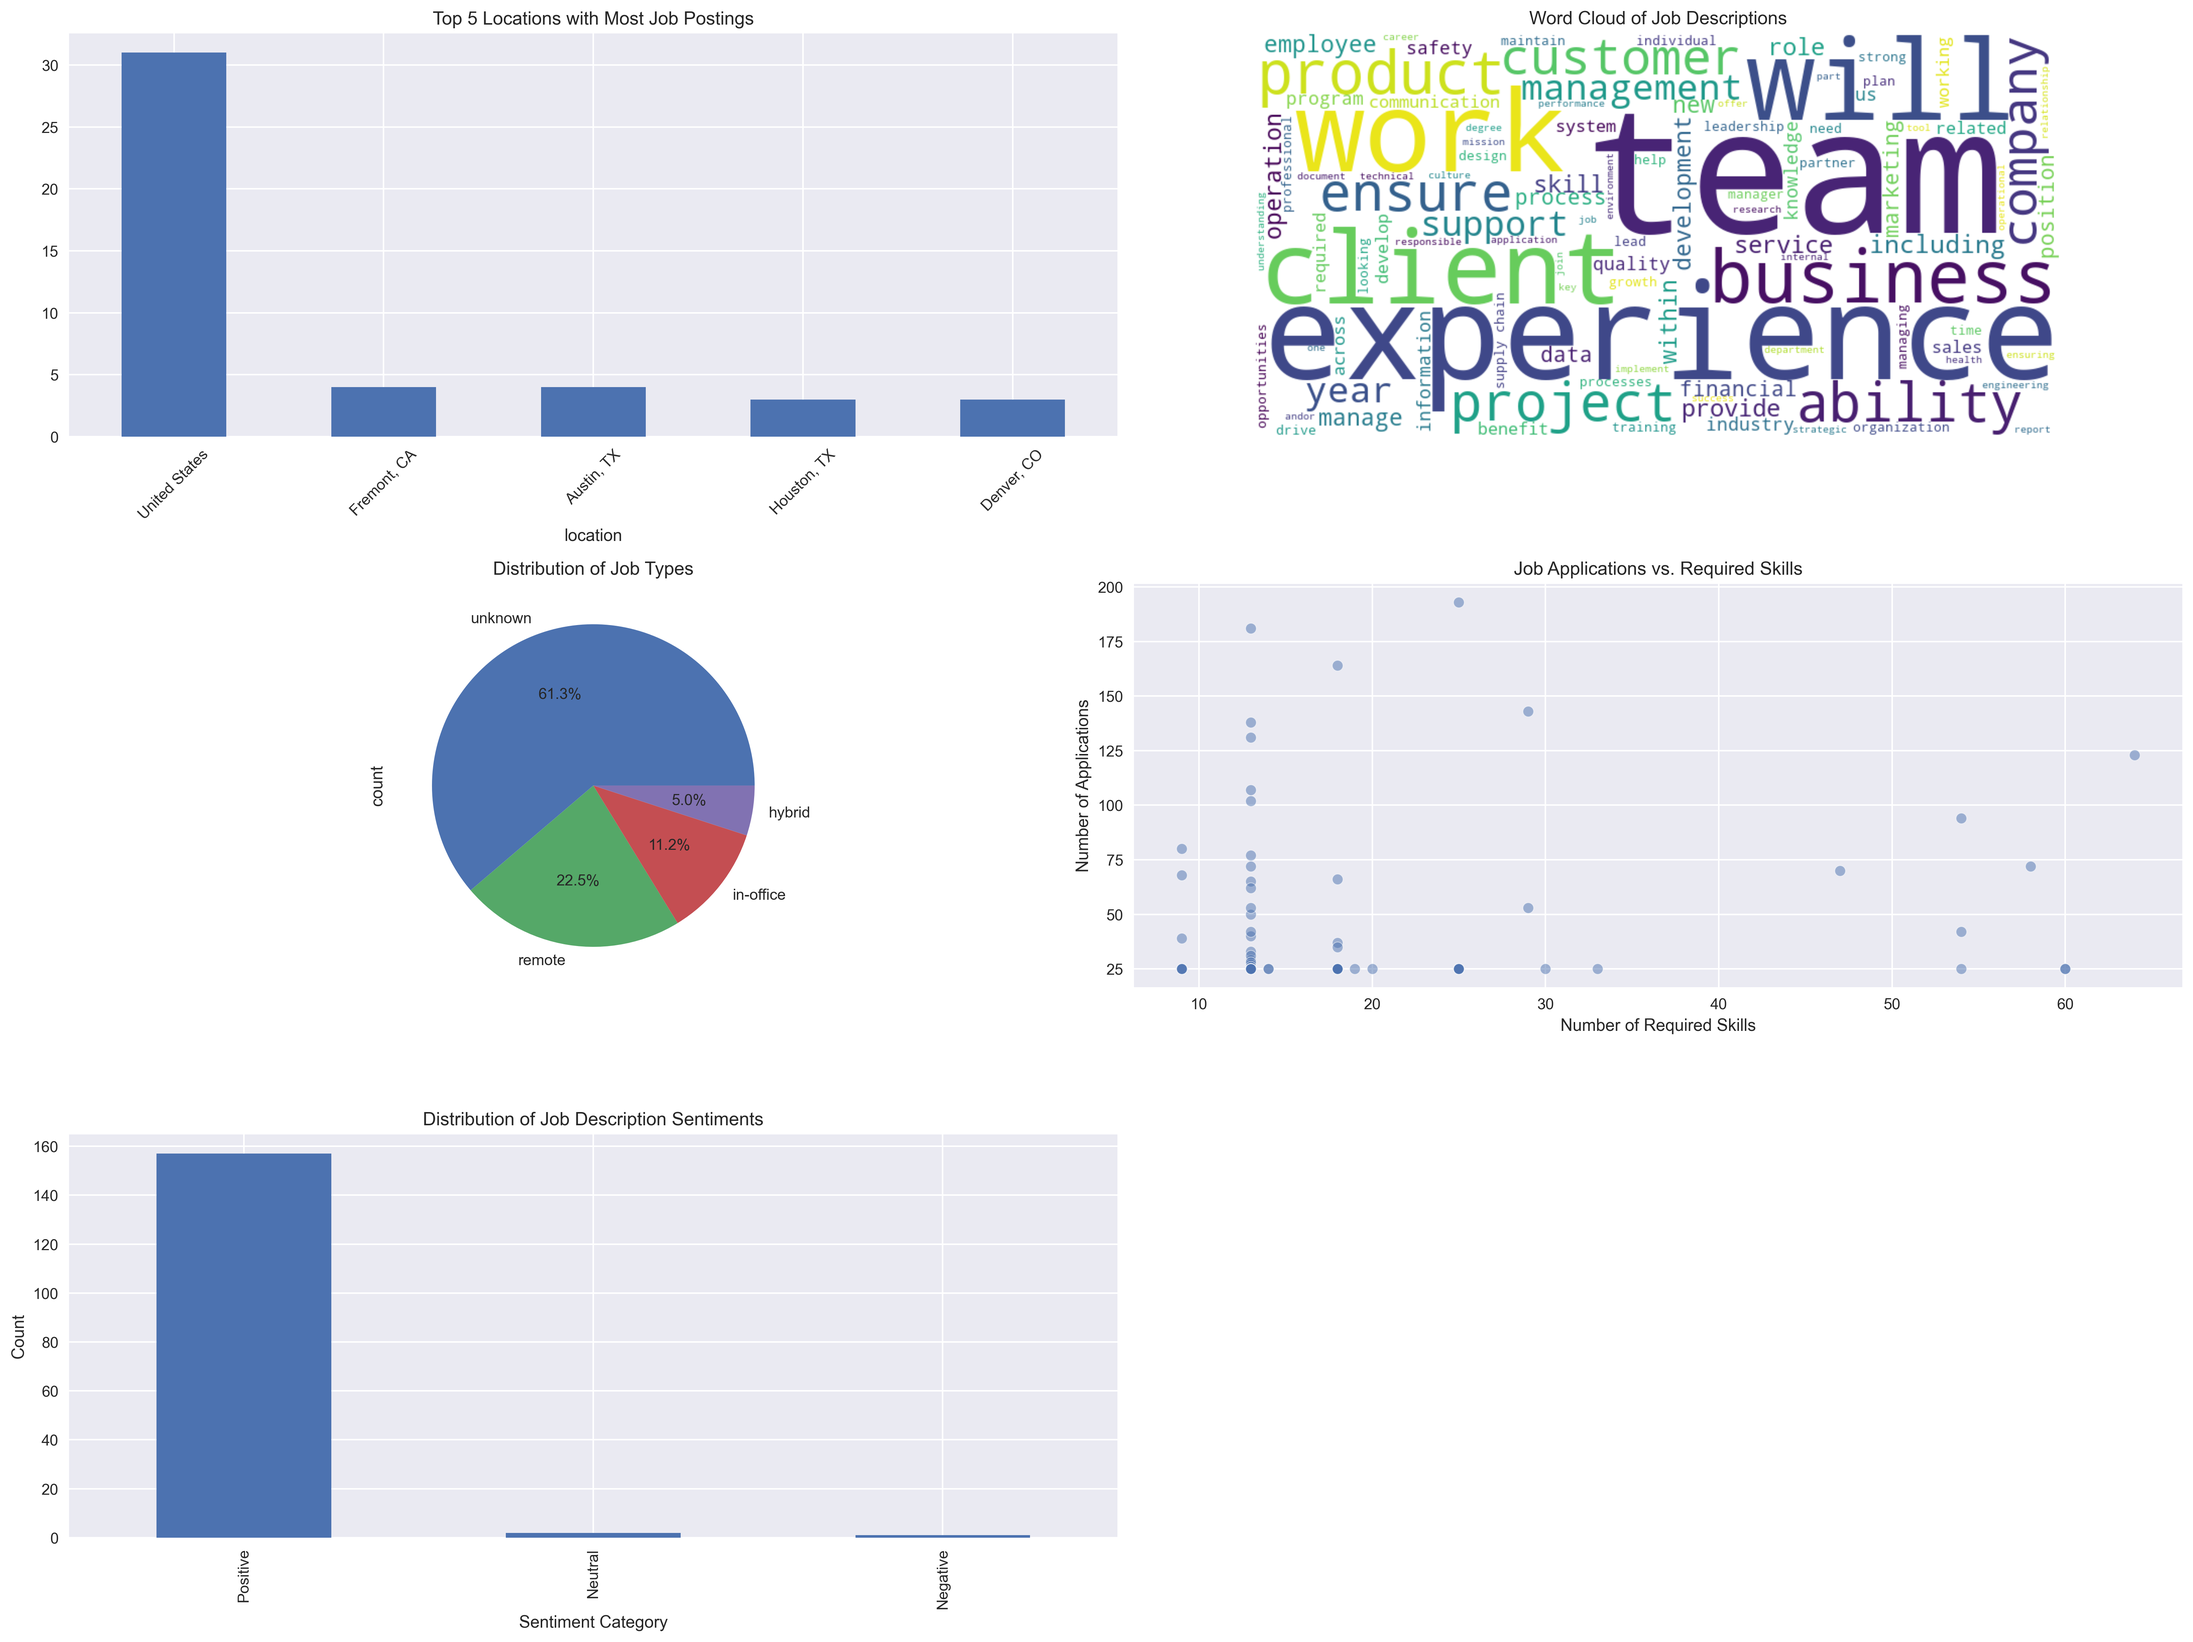
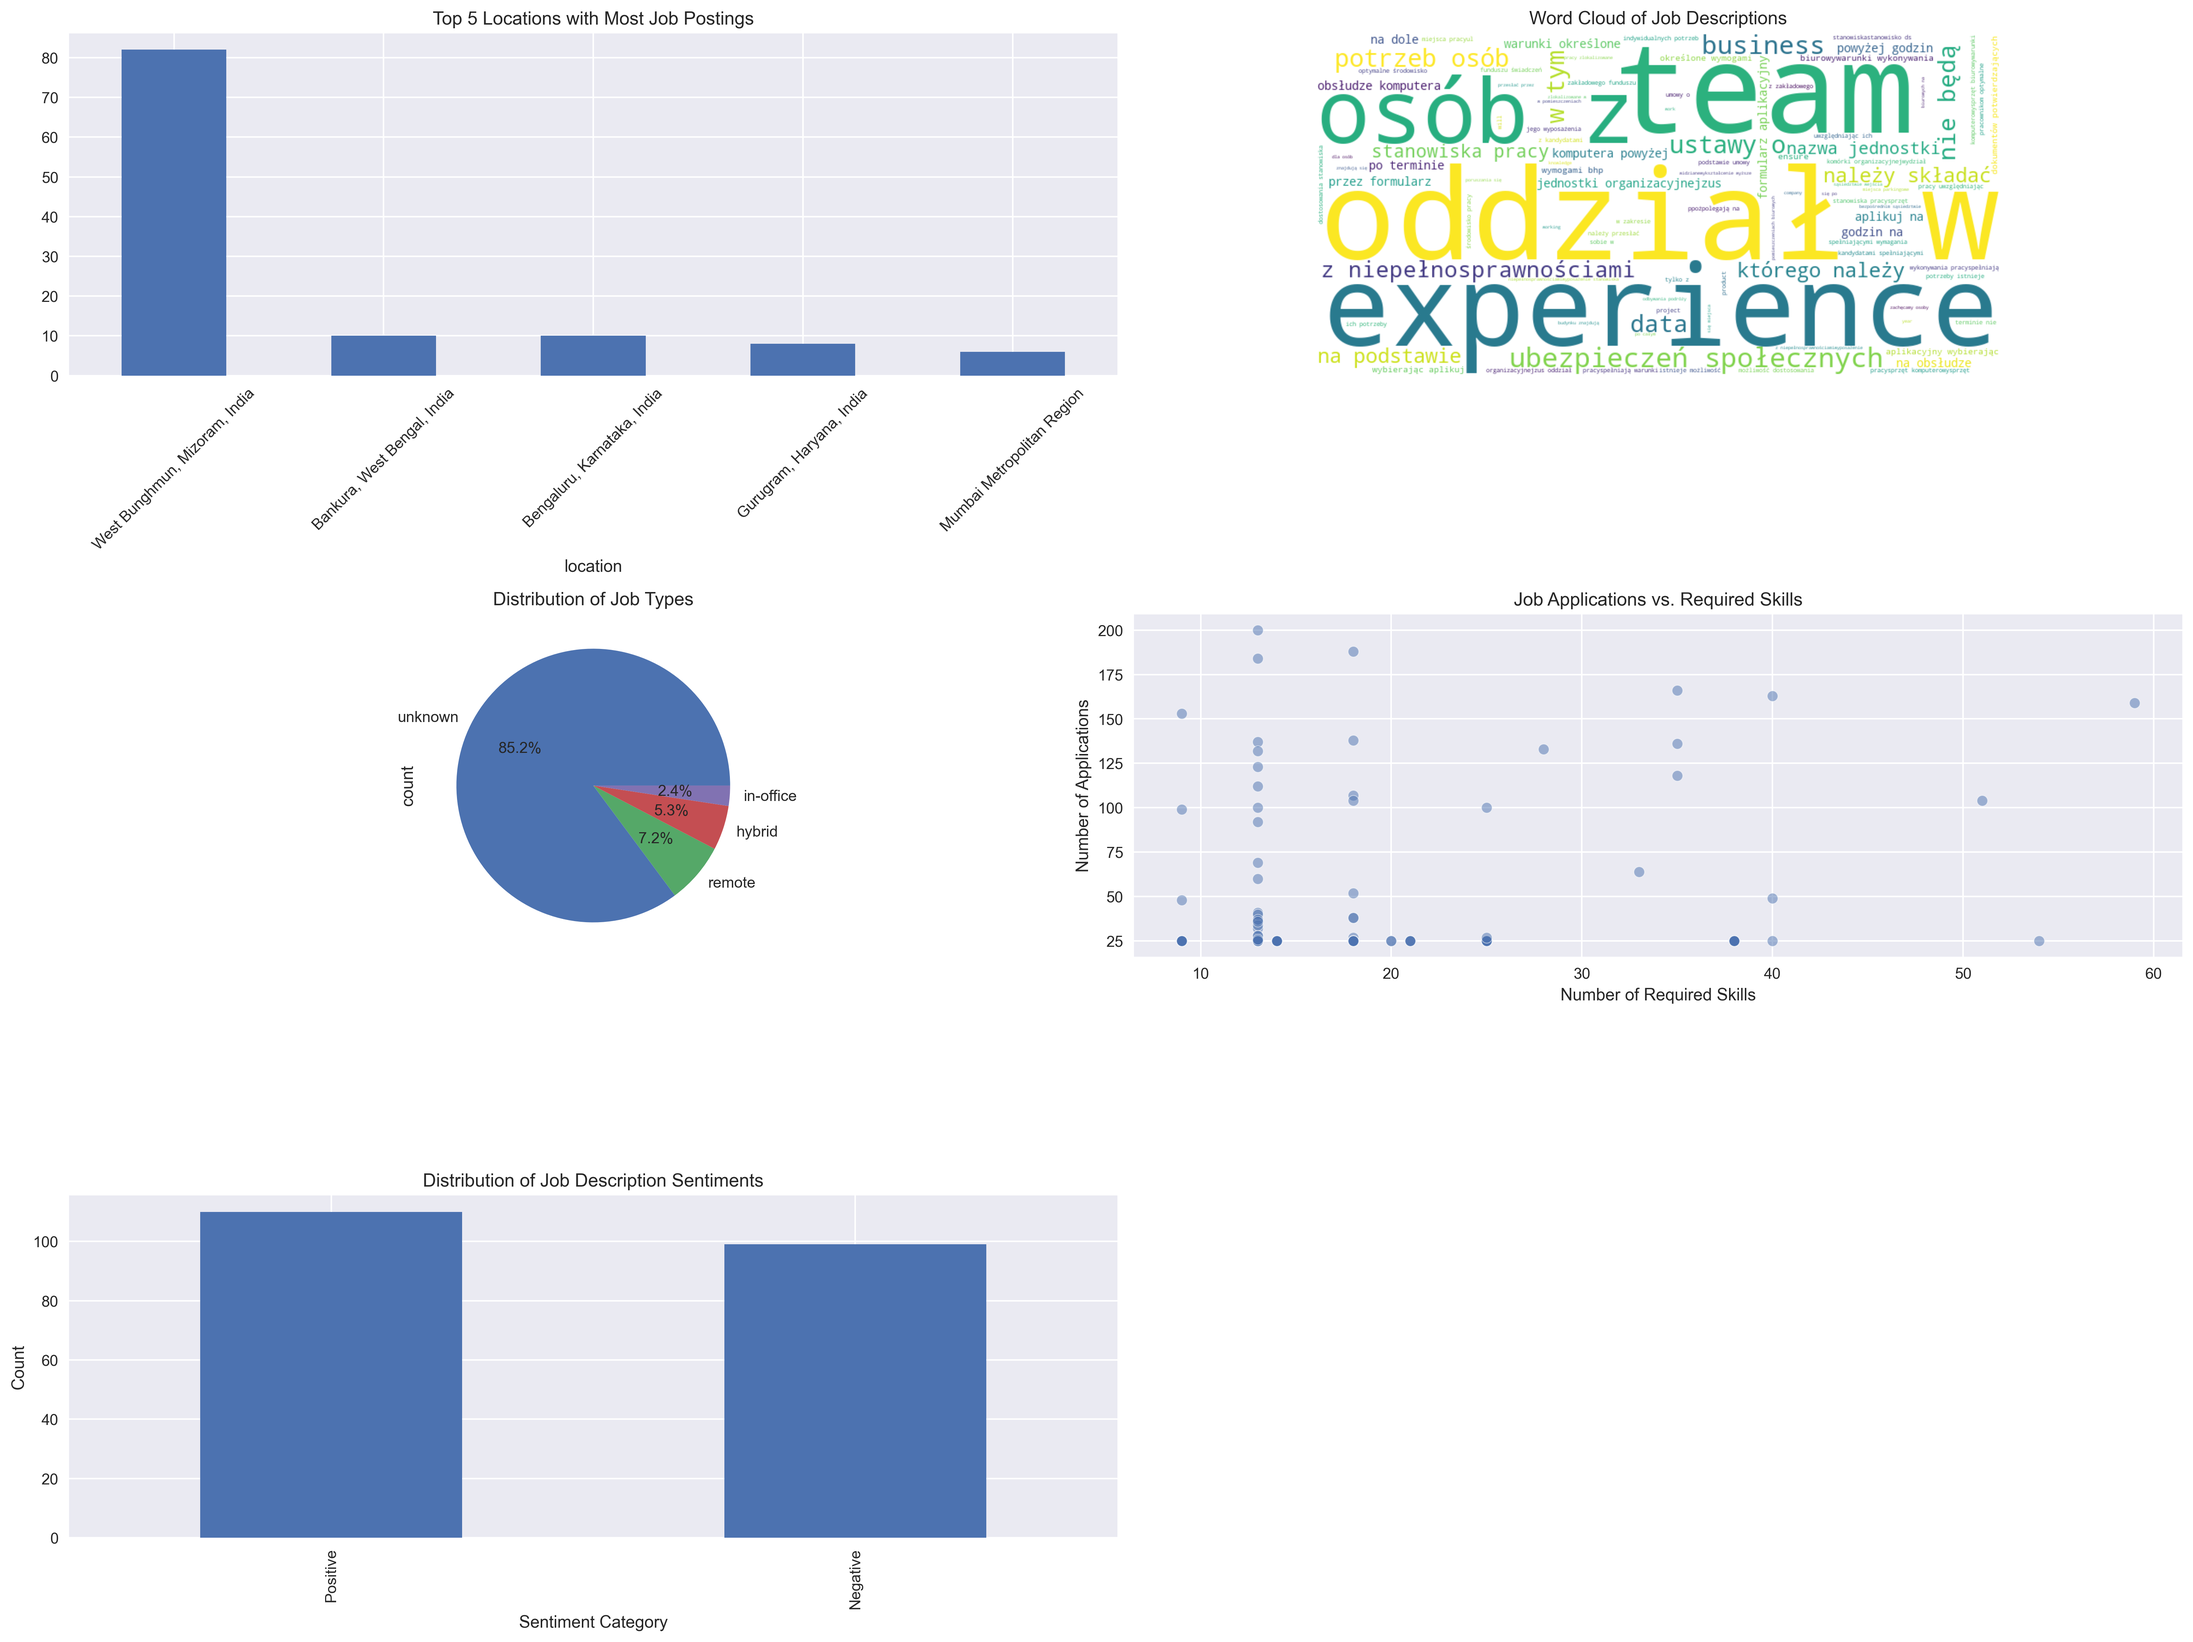
Add files via upload

diff --git a/scrap_and_clean.py b/scrap_and_clean.py
@@ -4,14 +4,16 @@ from bs4 import BeautifulSoup
 import pandas as pd
 
 title = ""  # Job title
-location = ""  # Job location
+location = "India"  # Job location
 start = 0  # Starting point for pagination
 
 # Initialize an empty list to store all job IDs
 id_list = []
+target_jobs = 250
+page = 0
 
-# Loop through multiple pages (e.g., first 10 pages = 250 jobs)
-for page in range(20):  # Adjust this number to get more or fewer pages
+# Loop until we get desired number of valid jobs
+while len(id_list) < target_jobs:
     start = page * 25  # Each page has 25 jobs
     
     # Construct the URL for LinkedIn job search with updated start parameter
@@ -23,6 +25,7 @@ for page in range(20):  # Adjust this number to get more or fewer pages
     # Only process pages with successful responses
     if response.status_code != 200:
         print(f"Failed to fetch page {page + 1} - Status code: {response.status_code}")
+        page += 1
         continue
     
     # Get the HTML, parse the response and find all list items(jobs postings)
@@ -37,16 +40,19 @@ for page in range(20):  # Adjust this number to get more or fewer pages
         
     # Iterate through job postings to find job ids
     for job in page_jobs:
+        if len(id_list) >= target_jobs:
+            break
+            
         try:
             base_card_div = job.find("div", {"class": "base-card"})
             job_id = base_card_div.get("data-entity-urn").split(":")[3]
-            print(f"Found job ID: {job_id} on page {page + 1}")
             
             # Get individual job details and verify response code
             job_url = f"https://www.linkedin.com/jobs-guest/jobs/api/jobPosting/{job_id}"
             job_response = requests.get(job_url)
             
             if job_response.status_code == 200:
+                print(f"Found valid job ID: {job_id} on page {page + 1} ({len(id_list) + 1}/{target_jobs})")
                 id_list.append(job_id)
             else:
                 print(f"Skipping job {job_id} - Status code: {job_response.status_code}")
@@ -54,6 +60,8 @@ for page in range(20):  # Adjust this number to get more or fewer pages
         except Exception as e:
             print(f"Error processing job on page {page + 1}: {str(e)}")
             continue
+    
+    page += 1
 
 print(f"Total valid jobs found: {len(id_list)}")
 
